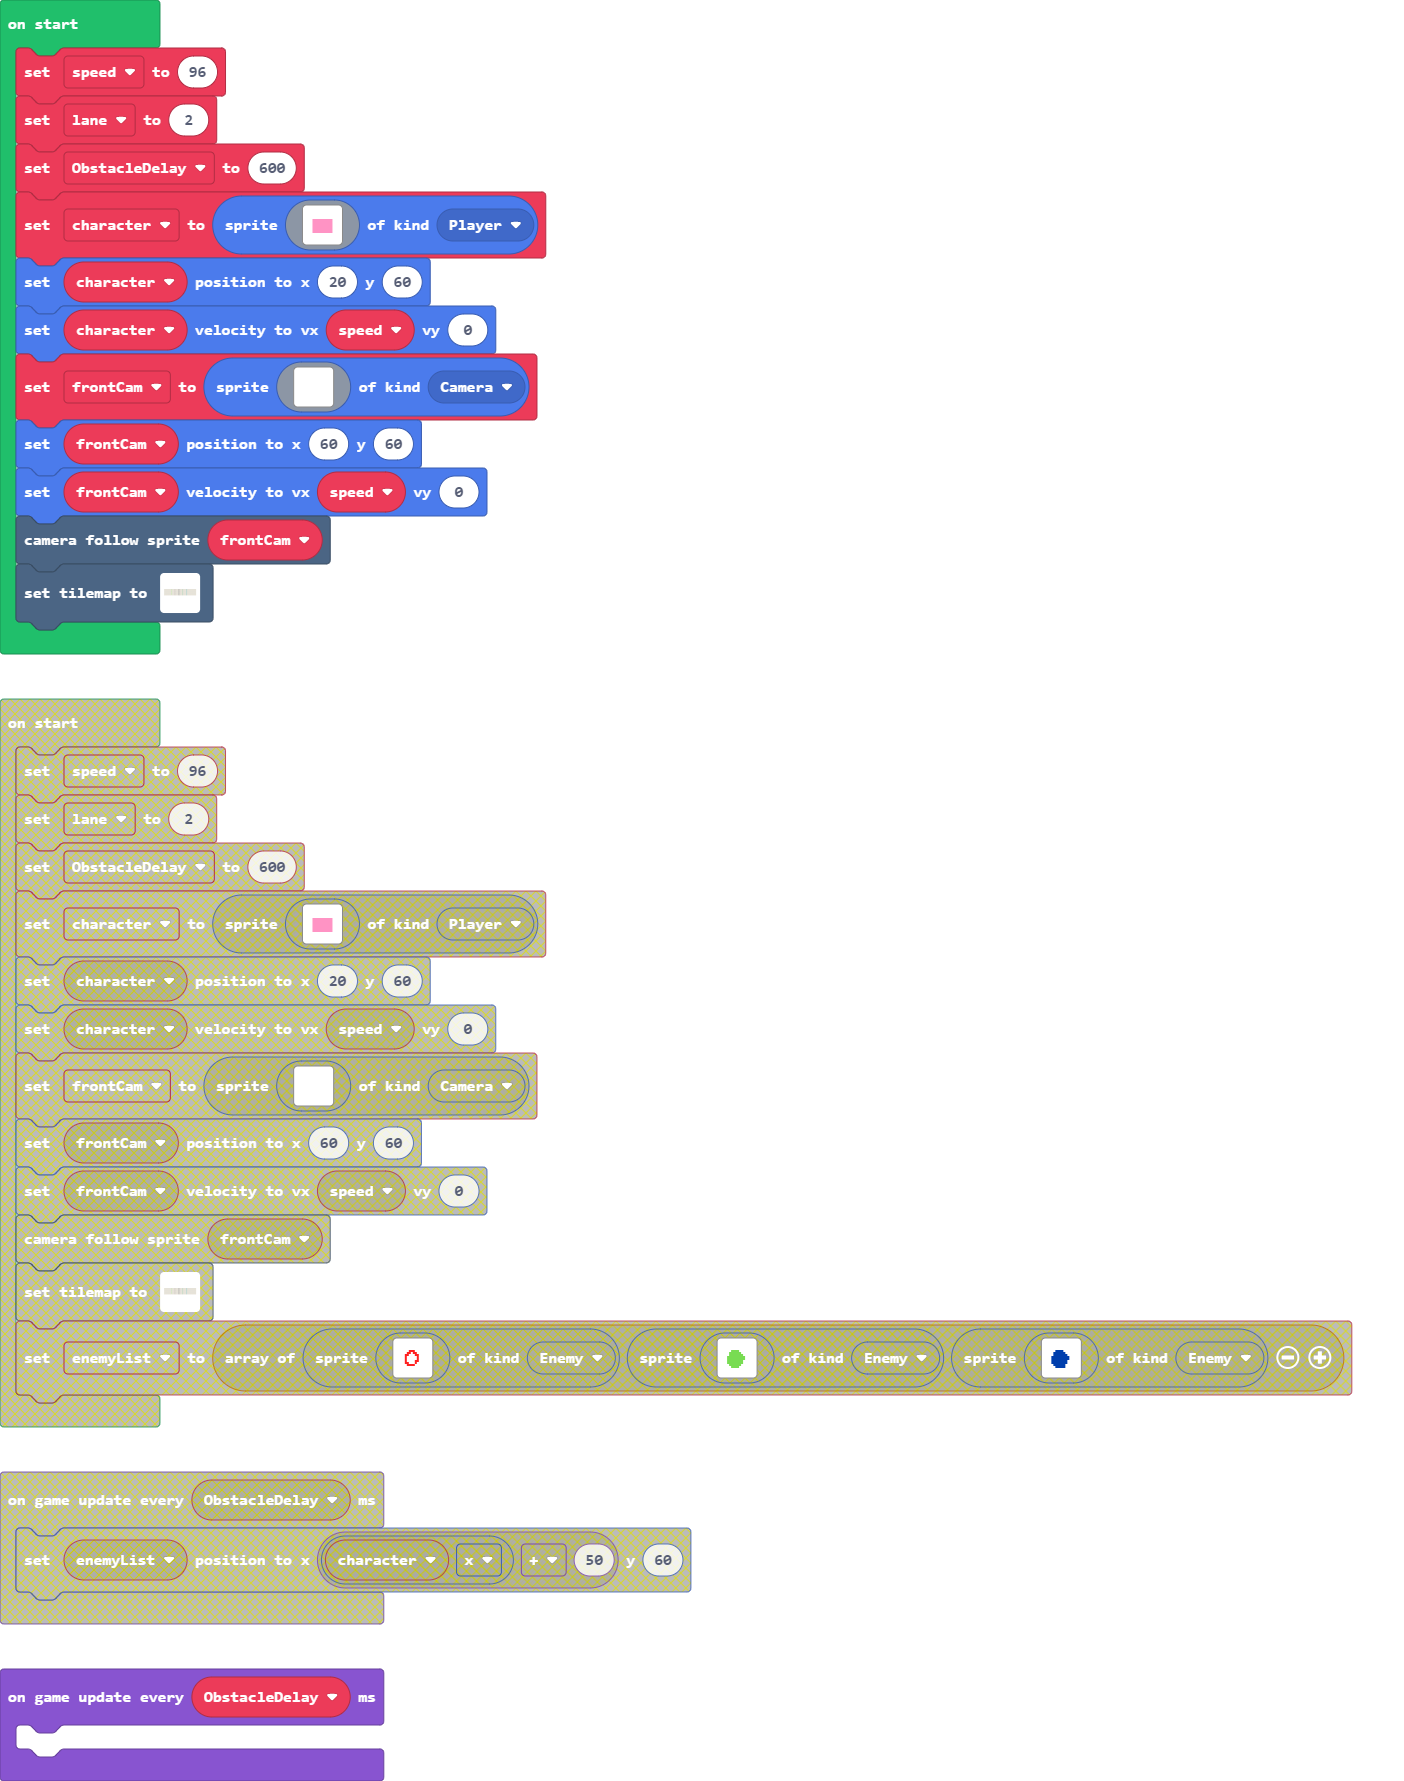
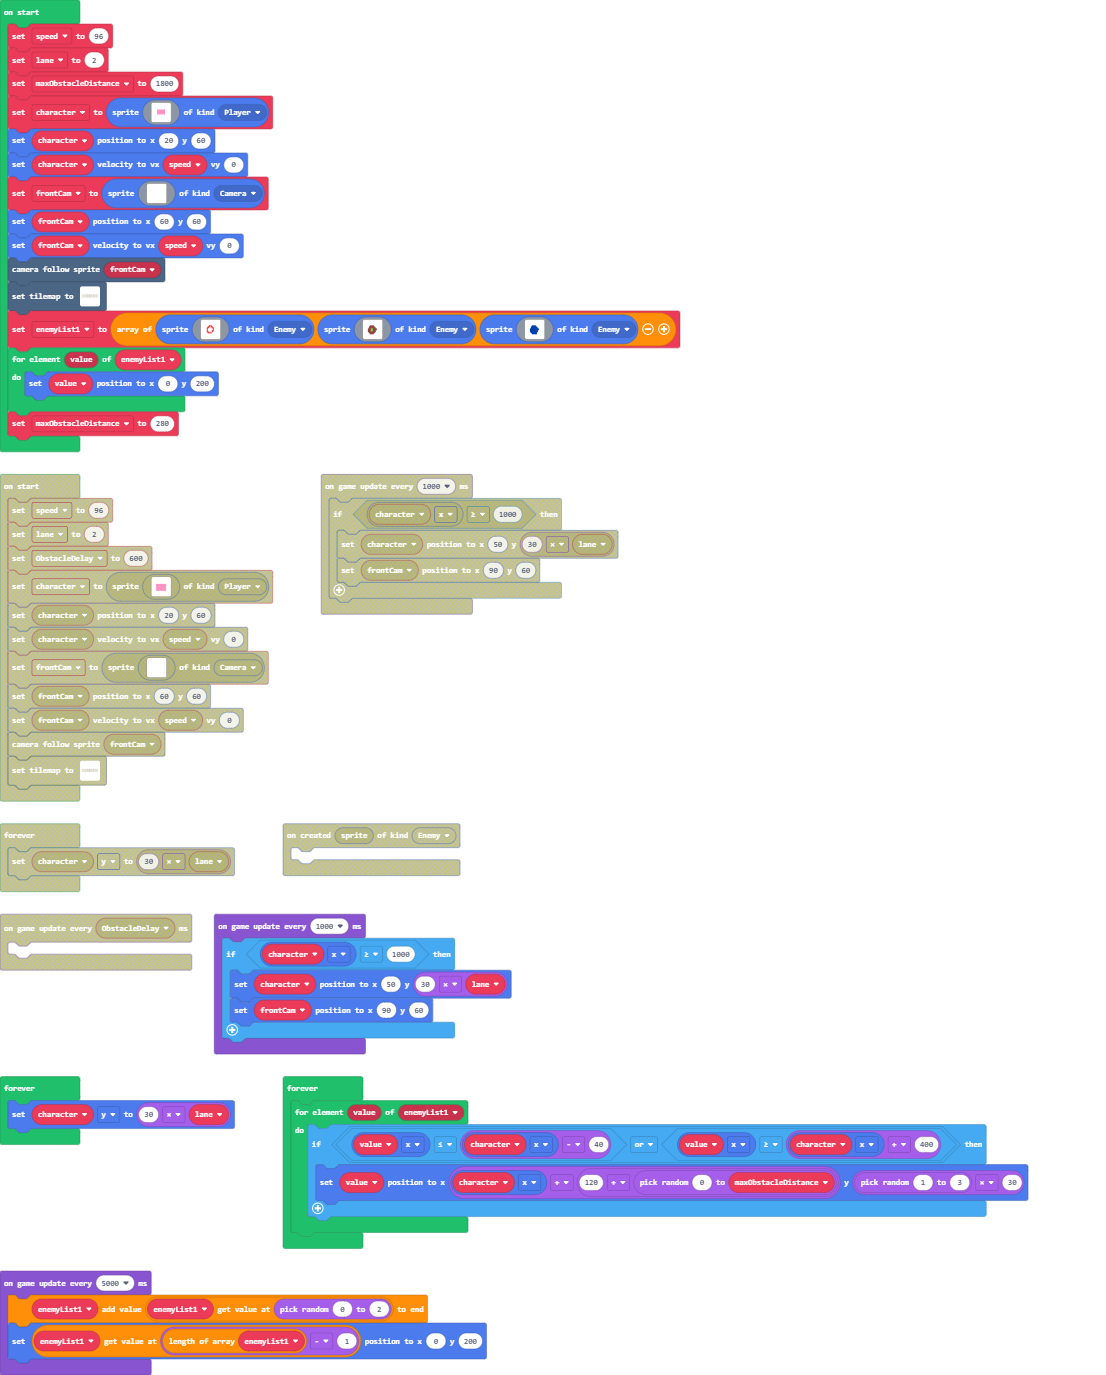
Update pxt.json, main.blocks, main.ts, tilemap.g.jres, tilemap.g.ts

diff --git a/main.ts b/main.ts
@@ -1,9 +1,6 @@
 namespace SpriteKind {
     export const Camera = SpriteKind.create()
 }
-sprites.onCreated(SpriteKind.Enemy, function (sprite) {
-	
-})
 controller.up.onEvent(ControllerButtonEvent.Pressed, function () {
     lane += -1
     if (lane < 1) {
@@ -22,20 +19,20 @@ sprites.onOverlap(SpriteKind.Player, SpriteKind.Enemy, function (sprite, otherSp
 let lane = 0
 let speed = 96
 lane = 2
-let ObstacleDelay = 600
+let maxObstacleDistance = 1800
 let character = sprites.create(img`
     . . . . . . . . . . . . . . . . 
     . . . . . . . . . . . . . . . . 
     . . . . . . . . . . . . . . . . 
     . . . . . . . . . . . . . . . . 
     . . . . . . . . . . . . . . . . 
-    . . . 3 3 3 3 3 3 3 3 3 3 . . . 
-    . . . 3 3 3 3 3 3 3 3 3 3 . . . 
-    . . . 3 3 3 3 3 3 3 3 3 3 . . . 
-    . . . 3 3 3 3 3 3 3 3 3 3 . . . 
-    . . . 3 3 3 3 3 3 3 3 3 3 . . . 
-    . . . 3 3 3 3 3 3 3 3 3 3 . . . 
-    . . . 3 3 3 3 3 3 3 3 3 3 . . . 
+    . . . . 3 3 3 3 3 3 3 3 . . . . 
+    . . . . 3 3 3 3 3 3 3 3 . . . . 
+    . . . . 3 3 3 3 3 3 3 3 . . . . 
+    . . . . 3 3 3 3 3 3 3 3 . . . . 
+    . . . . 3 3 3 3 3 3 3 3 . . . . 
+    . . . . . . . . . . . . . . . . 
+    . . . . . . . . . . . . . . . . 
     . . . . . . . . . . . . . . . . 
     . . . . . . . . . . . . . . . . 
     . . . . . . . . . . . . . . . . 
@@ -64,24 +61,67 @@ let frontCam = sprites.create(img`
 frontCam.setPosition(60, 60)
 frontCam.setVelocity(speed, 0)
 scene.cameraFollowSprite(frontCam)
-tiles.setTilemap(tiles.createTilemap(hex`500010000101010101010101010101010101010101010301010101010101010201010101010101010104010101010101010105010101010101010101060101010101010101010101010101010101010101010101010101010101010101010101010101010101030101010101010101020101010101010101010401010101010101010501010101010101010106010101010101010101010101010101010101010101010101010101010101010101010101010101010103010101010101010102010101010101010101040101010101010101050101010101010101010601010101010101010101010101010101010101010101010101010101010101010101010101010101010301010101010101010201010101010101010104010101010101010105010101010101010101060101010101010101010101010101010101010101010101010101010101010101010101010101010101030101010101010101020101010101010101010401010101010101010501010101010101010106010101010101010101010101010101010101010101010101010101010101010101010101010101010103010101010101010102010101010101010101040101010101010101050101010101010101010601010101010101010101010101010101010101010101010101010101010101010101010101010101010301010101010101010201010101010101010104010101010101010105010101010101010101060101010101010101010101010101010101010101010101010101010101010101010101010101010101030101010101010101020101010101010101010401010101010101010501010101010101010106010101010101010101010101010101010101010101010101010101010101010101010101010101010103010101010101010102010101010101010101040101010101010101050101010101010101010601010101010101010101010101010101010101010101010101010101010101010101010101010101010301010101010101010201010101010101010104010101010101010105010101010101010101060101010101010101010101010101010101010101010101010101010101010101010101010101010101030101010101010101020101010101010101010401010101010101010501010101010101010106010101010101010101010101010101010101010101010101010101010101010101010101010101010103010101010101010102010101010101010101040101010101010101050101010101010101010601010101010101010101010101010101010101010101010101010101010101010101010101010101010301010101010101010201010101010101010104010101010101010105010101010101010101060101010101010101010101010101010101010101010101010101010101010101010101010101010101030101010101010101020101010101010101010401010101010101010501010101010101010106010101010101010101010101010101010101010101010101010101010101010101010101010101010103010101010101010102010101010101010101040101010101010101050101010101010101010601010101010101010101010101010101010101010101010101010101010101010101010101010101010101010101010101010201010101010101010104010101010101010105010101010101010101060101010101010101010101010101010101010101010101`, img`
-    ................................................................................
-    ................................................................................
-    ................................................................................
-    ................................................................................
-    ................................................................................
-    ................................................................................
-    ................................................................................
-    ................................................................................
-    ................................................................................
-    ................................................................................
-    ................................................................................
-    ................................................................................
-    ................................................................................
-    ................................................................................
-    ................................................................................
-    ................................................................................
-    `, [myTiles.transparency16,sprites.castle.tilePath2,sprites.builtin.forestTiles12,sprites.castle.tileGrass1,sprites.builtin.forestTiles10,sprites.builtin.forestTiles2,sprites.castle.tileDarkGrass3], TileScale.Sixteen))
+tiles.setTilemap(tilemap`level_1`)
+let enemyList1 = [sprites.create(img`
+    . . . . . . . . . . . . . . . . 
+    . . . . . . . . . . . . . . . . 
+    . . . . . . . . . . . . . . . . 
+    . . . . . . . . . . . . . . . . 
+    . . . . . . 2 2 2 . . . . . . . 
+    . . . . . 2 2 . 2 2 . . . . . . 
+    . . . . 2 2 . . . 2 2 . . . . . 
+    . . . . 2 . . . . . 2 . . . . . 
+    . . . . 2 . . . . . 2 . . . . . 
+    . . . . 2 . . . . 2 2 . . . . . 
+    . . . . 2 2 . . . 2 . . . . . . 
+    . . . . . 2 2 2 2 . . . . . . . 
+    . . . . . . . . . . . . . . . . 
+    . . . . . . . . . . . . . . . . 
+    . . . . . . . . . . . . . . . . 
+    . . . . . . . . . . . . . . . . 
+    `, SpriteKind.Enemy), sprites.create(img`
+    . . . . . . . . . . . . . . . . 
+    . . . . . . . . . . . . . . . . 
+    . . . . . . . . . . . . . . . . 
+    . . . . . . . . . . . . . . . . 
+    . . . . . e e e e . . . . . . . 
+    . . . . e e e e e e . . . . . . 
+    . . . . e e e e e e e . . . . . 
+    . . . e e e 7 7 e e e e . . . . 
+    . . . e e e 7 7 e e e e . . . . 
+    . . . e e e 7 7 e e e . . . . . 
+    . . . e e e e e e e e . . . . . 
+    . . . . e e e e e e . . . . . . 
+    . . . . . e e e e . . . . . . . 
+    . . . . . . . . . . . . . . . . 
+    . . . . . . . . . . . . . . . . 
+    . . . . . . . . . . . . . . . . 
+    `, SpriteKind.Enemy), sprites.create(img`
+    . . . . . . . . . . . . . . . . 
+    . . . . . . . . . . . . . . . . 
+    . . . . . . . . . . . . . . . . 
+    . . . . . . . . . . . . . . . . 
+    . . . . . 8 8 8 8 . . . . . . . 
+    . . . . 8 8 8 8 8 8 . . . . . . 
+    . . . . 8 8 8 8 8 8 8 . . . . . 
+    . . . 8 8 8 8 8 8 8 8 8 . . . . 
+    . . . 8 8 8 8 8 8 8 8 8 . . . . 
+    . . . 8 8 8 8 8 8 8 8 . . . . . 
+    . . . 8 8 8 8 8 8 8 8 . . . . . 
+    . . . . 8 8 8 8 8 8 . . . . . . 
+    . . . . . 8 8 8 8 8 . . . . . . 
+    . . . . . . . . . . . . . . . . 
+    . . . . . . . . . . . . . . . . 
+    . . . . . . . . . . . . . . . . 
+    `, SpriteKind.Enemy)]
+for (let value of enemyList1) {
+    value.setPosition(0, 200)
+}
+maxObstacleDistance = 280
+game.onUpdateInterval(5000, function () {
+    enemyList1.push(enemyList1[randint(0, 2)])
+    enemyList1[enemyList1.length - 1].setPosition(0, 200)
+})
 game.onUpdateInterval(1000, function () {
     if (character.x >= 1000) {
         character.setPosition(50, 30 * lane)
@@ -91,6 +131,10 @@ game.onUpdateInterval(1000, function () {
 forever(function () {
     character.y = 30 * lane
 })
-game.onUpdateInterval(ObstacleDelay, function () {
-	
+forever(function () {
+    for (let value of enemyList1) {
+        if (value.x <= character.x - 40 || value.x >= character.x + 400) {
+            value.setPosition(character.x + (120 + randint(0, maxObstacleDistance)), randint(1, 3) * 30)
+        }
+    }
 })

diff --git a/tilemap.g.ts b/tilemap.g.ts
@@ -41,6 +41,24 @@ namespace myTiles {
 ................................................................................
 ................................................................................
 `, [myTiles.transparency16,sprites.castle.tilePath2,sprites.builtin.forestTiles12,sprites.castle.tileGrass1,sprites.builtin.forestTiles10,sprites.builtin.forestTiles2,sprites.castle.tileDarkGrass3], TileScale.Sixteen)
+            case "level_1": return tiles.createTilemap(hex`500010000101010101010101010101010101010101010301010101010101010201010101010101010104010101010101010105010101010101010101060101010101010101010101010101010101010101010101010101010101010101010101010101010101030101010101010101020101010101010101010401010101010101010501010101010101010106010101010101010101010101010101010101010101010101010101010101010101010101010101010103010101010101010102010101010101010101040101010101010101050101010101010101010601010101010101010101010101010101010101010101010101010101010101010101010101010101010301010101010101010201010101010101010104010101010101010105010101010101010101060101010101010101010101010101010101010101010101010101010101010101010101010101010101030101010101010101020101010101010101010401010101010101010501010101010101010106010101010101010101010101010101010101010101010101010101010101010101010101010101010103010101010101010102010101010101010101040101010101010101050101010101010101010601010101010101010101010101010101010101010101010101010101010101010101010101010101010301010101010101010201010101010101010104010101010101010105010101010101010101060101010101010101010101010101010101010101010101010101010101010101010101010101010101030101010101010101020101010101010101010401010101010101010501010101010101010106010101010101010101010101010101010101010101010101010101010101010101010101010101010103010101010101010102010101010101010101040101010101010101050101010101010101010601010101010101010101010101010101010101010101010101010101010101010101010101010101010301010101010101010201010101010101010104010101010101010105010101010101010101060101010101010101010101010101010101010101010101010101010101010101010101010101010101030101010101010101020101010101010101010401010101010101010501010101010101010106010101010101010101010101010101010101010101010101010101010101010101010101010101010103010101010101010102010101010101010101040101010101010101050101010101010101010601010101010101010101010101010101010101010101010101010101010101010101010101010101010301010101010101010201010101010101010104010101010101010105010101010101010101060101010101010101010101010101010101010101010101010101010101010101010101010101010101030101010101010101020101010101010101010401010101010101010501010101010101010106010101010101010101010101010101010101010101010101010101010101010101010101010101010103010101010101010102010101010101010101040101010101010101050101010101010101010601010101010101010101010101010101010101010101010101010101010101010101010101010101010101010101010101010201010101010101010104010101010101010105010101010101010101060101010101010101010101010101010101010101010101`, img`
+................................................................................
+................................................................................
+................................................................................
+................................................................................
+................................................................................
+................................................................................
+................................................................................
+................................................................................
+................................................................................
+................................................................................
+................................................................................
+................................................................................
+................................................................................
+................................................................................
+................................................................................
+................................................................................
+`, [myTiles.transparency16,sprites.castle.tilePath2,sprites.builtin.forestTiles12,sprites.castle.tileGrass1,sprites.builtin.forestTiles10,sprites.builtin.forestTiles2,sprites.castle.tileDarkGrass3], TileScale.Sixteen)
         }
         return null;
     })
